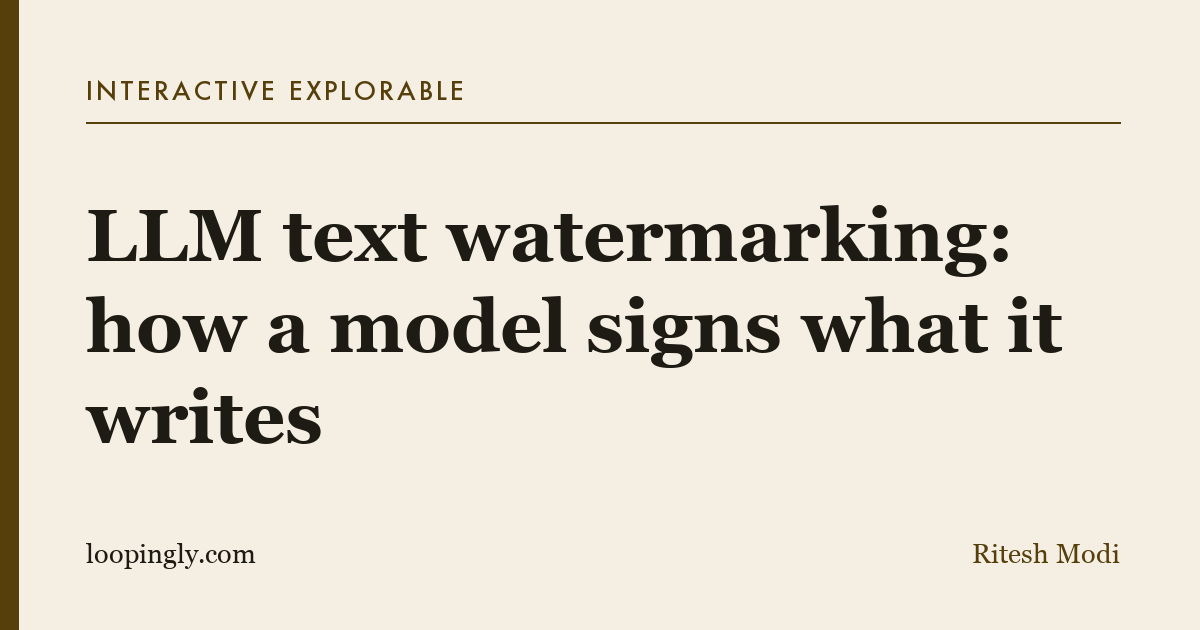
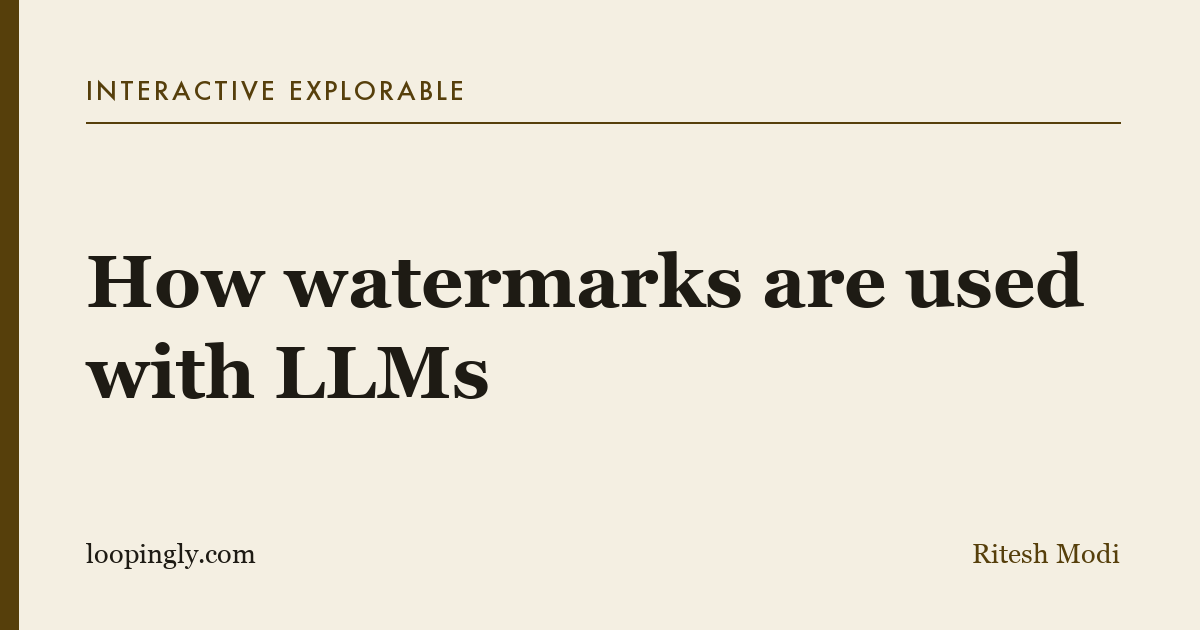
Retitle watermarking explorable
"How a model signs what it writes" -> "How watermarks are used with LLMs",
across the page h1, the title tag, both listing cards (data-title, data-q,
h3), and the metadata regenerated from them: og/twitter titles, Article
headline, breadcrumb, explorables ItemList, feed entry, and the share card,
which had the old title rendered into the pixels.

Claude-Session: https://claude.ai/code/session_01VjkCX7SAEQe5nLaWJ1AvpT

Changed region(s): [[0.0617, 0.3016, 0.925, 0.7238]]

diff --git a/explorables.html b/explorables.html
@@ -32,7 +32,7 @@
   <meta name="twitter:title" content="Explorables — Ritesh Modi">
   <meta name="twitter:description" content="Interactive explainers on AI, databases and distributed systems — each a single page you learn by dragging, poking and breaking. Search and filter them.">
   <meta name="twitter:image" content="https://www.loopingly.com/og/explorables.png">
-  <script type="application/ld+json">{"@context":"https://schema.org","@type":"CollectionPage","name":"Explorables","description":"Interactive explainers on AI, databases and distributed systems — each a single page you learn by dragging, poking and breaking. Search and filter them.","url":"https://www.loopingly.com/explorables","isPartOf":{"@type":"WebSite","name":"Ritesh Modi","url":"https://www.loopingly.com/"},"mainEntity":{"@type":"ItemList","numberOfItems":43,"itemListElement":[{"@type":"ListItem","position":1,"url":"https://www.loopingly.com/explorables/llm-watermarking","name":"How a model signs what it writes"},{"@type":"ListItem","position":2,"url":"https://www.loopingly.com/explorables/agentic-rag","name":"The pipeline that is allowed to try again"},{"@type":"ListItem","position":3,"url":"https://www.loopingly.com/explorables/generative-ai","name":"A machine that produces instead of choosing"},{"@type":"ListItem","position":4,"url":"https://www.loopingly.com/explorables/history-of-generative-ai","name":"A history of generative AI, 1948 to now"},{"@type":"ListItem","position":5,"url":"https://www.loopingly.com/explorables/how-twenty-companies-run-generative-ai","name":"How twenty companies run generative AI"},{"@type":"ListItem","position":6,"url":"https://www.loopingly.com/explorables/playground-controls","name":"Every control on the Playground"},{"@type":"ListItem","position":7,"url":"https://www.loopingly.com/explorables/predicting-the-next-character","name":"Predicting the next character"},{"@type":"ListItem","position":8,"url":"https://www.loopingly.com/explorables/prompting-techniques","name":"Prompting techniques, and when to use each"},{"@type":"ListItem","position":9,"url":"https://www.loopingly.com/explorables/medallion-ten-rows-a-day","name":"Medallion architecture on ten rows a day"},{"@type":"ListItem","position":10,"url":"https://www.loopingly.com/explorables/delta-table-api-explained","name":"The Delta table API"},{"@type":"ListItem","position":11,"url":"https://www.loopingly.com/explorables/regression-metrics-by-hand","name":"Four numbers disagree about one model"},{"@type":"ListItem","position":12,"url":"https://www.loopingly.com/explorables/classification-metrics-by-hand","name":"One slider, three different models"},{"@type":"ListItem","position":13,"url":"https://www.loopingly.com/explorables/neural-network-by-hand","name":"Fifteen numbers, learned"},{"@type":"ListItem","position":14,"url":"https://www.loopingly.com/explorables/three-motions-of-a-model","name":"Classification, regression, deep learning"},{"@type":"ListItem","position":15,"url":"https://www.loopingly.com/explorables/03-words-to-vectors","name":"From a word to a vector"},{"@type":"ListItem","position":16,"url":"https://www.loopingly.com/explorables/matchbox-language-model","name":"A language model made of matchboxes"},{"@type":"ListItem","position":17,"url":"https://www.loopingly.com/explorables/what-is-intelligence","name":"What is intelligence?"},{"@type":"ListItem","position":18,"url":"https://www.loopingly.com/explorables/how-data-becomes-an-equation","name":"How data becomes an equation"},{"@type":"ListItem","position":19,"url":"https://www.loopingly.com/explorables/ai-vs-ml-explained","name":"AI vs machine learning vs automation"},{"@type":"ListItem","position":20,"url":"https://www.loopingly.com/explorables/the-layers-of-intelligence","name":"How the AI words nest"},{"@type":"ListItem","position":21,"url":"https://www.loopingly.com/explorables/how-models-learn","name":"How models learn"},{"@type":"ListItem","position":22,"url":"https://www.loopingly.com/explorables/three-types-of-machine-learning","name":"The three types of machine learning"},{"@type":"ListItem","position":23,"url":"https://www.loopingly.com/explorables/never-use-ai-when-rules-will-do","name":"When to use a rule instead of a model"},{"@type":"ListItem","position":24,"url":"https://www.loopingly.com/explorables/is-it-actually-thinking","name":"What an AI assistant actually does"},{"@type":"ListItem","position":25,"url":"https://www.loopingly.com/explorables/what-ai-is-good-and-bad-at","name":"What AI is good and bad at"},{"@type":"ListItem","position":26,"url":"https://www.loopingly.com/explorables/genai-vocabulary-explainer","name":"Generative AI vocabulary"},{"@type":"ListItem","position":27,"url":"https://www.loopingly.com/explorables/tokenization","name":"Tokenization"},{"@type":"ListItem","position":28,"url":"https://www.loopingly.com/explorables/multimodal-explainer","name":"Multimodal AI"},{"@type":"ListItem","position":29,"url":"https://www.loopingly.com/explorables/reasoning-models-explainer","name":"How reasoning models work"},{"@type":"ListItem","position":30,"url":"https://www.loopingly.com/explorables/prompt-engineering-explainer","name":"Prompt engineering"},{"@type":"ListItem","position":31,"url":"https://www.loopingly.com/explorables/evaluating-models-explainer","name":"Evaluating and comparing AI models"},{"@type":"ListItem","position":32,"url":"https://www.loopingly.com/explorables/discovering-models-trends-explainer","name":"Finding and tracking AI models"},{"@type":"ListItem","position":33,"url":"https://www.loopingly.com/explorables/ai-transformation-explainer","name":"Leading AI transformation"},{"@type":"ListItem","position":34,"url":"https://www.loopingly.com/explorables/grc-explained","name":"Governance, risk and compliance explained"},{"@type":"ListItem","position":35,"url":"https://www.loopingly.com/explorables/grc-building-blocks","name":"The seven building blocks of GRC"},{"@type":"ListItem","position":36,"url":"https://www.loopingly.com/explorables/grc-building-blocks-lesson","name":"The seven building blocks of GRC: a lesson"},{"@type":"ListItem","position":37,"url":"https://www.loopingly.com/explorables/grc-operating-registers","name":"The GRC registers an organization keeps"},{"@type":"ListItem","position":38,"url":"https://www.loopingly.com/explorables/regulatory-atlas","name":"The regulatory atlas"},{"@type":"ListItem","position":39,"url":"https://www.loopingly.com/explorables/grc-for-genai","name":"Governing generative AI"},{"@type":"ListItem","position":40,"url":"https://www.loopingly.com/explorables/rate-limiting-explainer","name":"API rate limiting"},{"@type":"ListItem","position":41,"url":"https://www.loopingly.com/explorables/azure-service-principals-explainer","name":"Azure service principals and OAuth"},{"@type":"ListItem","position":42,"url":"https://www.loopingly.com/explorables/postgres-partitioning-explainer","name":"Postgres table partitioning"},{"@type":"ListItem","position":43,"url":"https://www.loopingly.com/explorables/partition-equal-subset-sum","name":"Partition equal subset sum"}]}}</script>
+  <script type="application/ld+json">{"@context":"https://schema.org","@type":"CollectionPage","name":"Explorables","description":"Interactive explainers on AI, databases and distributed systems — each a single page you learn by dragging, poking and breaking. Search and filter them.","url":"https://www.loopingly.com/explorables","isPartOf":{"@type":"WebSite","name":"Ritesh Modi","url":"https://www.loopingly.com/"},"mainEntity":{"@type":"ItemList","numberOfItems":43,"itemListElement":[{"@type":"ListItem","position":1,"url":"https://www.loopingly.com/explorables/llm-watermarking","name":"How watermarks are used with LLMs"},{"@type":"ListItem","position":2,"url":"https://www.loopingly.com/explorables/agentic-rag","name":"The pipeline that is allowed to try again"},{"@type":"ListItem","position":3,"url":"https://www.loopingly.com/explorables/generative-ai","name":"A machine that produces instead of choosing"},{"@type":"ListItem","position":4,"url":"https://www.loopingly.com/explorables/history-of-generative-ai","name":"A history of generative AI, 1948 to now"},{"@type":"ListItem","position":5,"url":"https://www.loopingly.com/explorables/how-twenty-companies-run-generative-ai","name":"How twenty companies run generative AI"},{"@type":"ListItem","position":6,"url":"https://www.loopingly.com/explorables/playground-controls","name":"Every control on the Playground"},{"@type":"ListItem","position":7,"url":"https://www.loopingly.com/explorables/predicting-the-next-character","name":"Predicting the next character"},{"@type":"ListItem","position":8,"url":"https://www.loopingly.com/explorables/prompting-techniques","name":"Prompting techniques, and when to use each"},{"@type":"ListItem","position":9,"url":"https://www.loopingly.com/explorables/medallion-ten-rows-a-day","name":"Medallion architecture on ten rows a day"},{"@type":"ListItem","position":10,"url":"https://www.loopingly.com/explorables/delta-table-api-explained","name":"The Delta table API"},{"@type":"ListItem","position":11,"url":"https://www.loopingly.com/explorables/regression-metrics-by-hand","name":"Four numbers disagree about one model"},{"@type":"ListItem","position":12,"url":"https://www.loopingly.com/explorables/classification-metrics-by-hand","name":"One slider, three different models"},{"@type":"ListItem","position":13,"url":"https://www.loopingly.com/explorables/neural-network-by-hand","name":"Fifteen numbers, learned"},{"@type":"ListItem","position":14,"url":"https://www.loopingly.com/explorables/three-motions-of-a-model","name":"Classification, regression, deep learning"},{"@type":"ListItem","position":15,"url":"https://www.loopingly.com/explorables/03-words-to-vectors","name":"From a word to a vector"},{"@type":"ListItem","position":16,"url":"https://www.loopingly.com/explorables/matchbox-language-model","name":"A language model made of matchboxes"},{"@type":"ListItem","position":17,"url":"https://www.loopingly.com/explorables/what-is-intelligence","name":"What is intelligence?"},{"@type":"ListItem","position":18,"url":"https://www.loopingly.com/explorables/how-data-becomes-an-equation","name":"How data becomes an equation"},{"@type":"ListItem","position":19,"url":"https://www.loopingly.com/explorables/ai-vs-ml-explained","name":"AI vs machine learning vs automation"},{"@type":"ListItem","position":20,"url":"https://www.loopingly.com/explorables/the-layers-of-intelligence","name":"How the AI words nest"},{"@type":"ListItem","position":21,"url":"https://www.loopingly.com/explorables/how-models-learn","name":"How models learn"},{"@type":"ListItem","position":22,"url":"https://www.loopingly.com/explorables/three-types-of-machine-learning","name":"The three types of machine learning"},{"@type":"ListItem","position":23,"url":"https://www.loopingly.com/explorables/never-use-ai-when-rules-will-do","name":"When to use a rule instead of a model"},{"@type":"ListItem","position":24,"url":"https://www.loopingly.com/explorables/is-it-actually-thinking","name":"What an AI assistant actually does"},{"@type":"ListItem","position":25,"url":"https://www.loopingly.com/explorables/what-ai-is-good-and-bad-at","name":"What AI is good and bad at"},{"@type":"ListItem","position":26,"url":"https://www.loopingly.com/explorables/genai-vocabulary-explainer","name":"Generative AI vocabulary"},{"@type":"ListItem","position":27,"url":"https://www.loopingly.com/explorables/tokenization","name":"Tokenization"},{"@type":"ListItem","position":28,"url":"https://www.loopingly.com/explorables/multimodal-explainer","name":"Multimodal AI"},{"@type":"ListItem","position":29,"url":"https://www.loopingly.com/explorables/reasoning-models-explainer","name":"How reasoning models work"},{"@type":"ListItem","position":30,"url":"https://www.loopingly.com/explorables/prompt-engineering-explainer","name":"Prompt engineering"},{"@type":"ListItem","position":31,"url":"https://www.loopingly.com/explorables/evaluating-models-explainer","name":"Evaluating and comparing AI models"},{"@type":"ListItem","position":32,"url":"https://www.loopingly.com/explorables/discovering-models-trends-explainer","name":"Finding and tracking AI models"},{"@type":"ListItem","position":33,"url":"https://www.loopingly.com/explorables/ai-transformation-explainer","name":"Leading AI transformation"},{"@type":"ListItem","position":34,"url":"https://www.loopingly.com/explorables/grc-explained","name":"Governance, risk and compliance explained"},{"@type":"ListItem","position":35,"url":"https://www.loopingly.com/explorables/grc-building-blocks","name":"The seven building blocks of GRC"},{"@type":"ListItem","position":36,"url":"https://www.loopingly.com/explorables/grc-building-blocks-lesson","name":"The seven building blocks of GRC: a lesson"},{"@type":"ListItem","position":37,"url":"https://www.loopingly.com/explorables/grc-operating-registers","name":"The GRC registers an organization keeps"},{"@type":"ListItem","position":38,"url":"https://www.loopingly.com/explorables/regulatory-atlas","name":"The regulatory atlas"},{"@type":"ListItem","position":39,"url":"https://www.loopingly.com/explorables/grc-for-genai","name":"Governing generative AI"},{"@type":"ListItem","position":40,"url":"https://www.loopingly.com/explorables/rate-limiting-explainer","name":"API rate limiting"},{"@type":"ListItem","position":41,"url":"https://www.loopingly.com/explorables/azure-service-principals-explainer","name":"Azure service principals and OAuth"},{"@type":"ListItem","position":42,"url":"https://www.loopingly.com/explorables/postgres-partitioning-explainer","name":"Postgres table partitioning"},{"@type":"ListItem","position":43,"url":"https://www.loopingly.com/explorables/partition-equal-subset-sum","name":"Partition equal subset sum"}]}}</script>
   <!-- seo:end -->
 </head>
 <body class="tint p-explorables">
@@ -84,9 +84,9 @@
   </div>
 
   <div class="grid" id="grid">
-    <a class="card" data-topic="systems" data-level="beginner" data-date="2026-09-08" data-title="How a model signs what it writes" data-q="how a model signs what it writes llm watermarking ai detection ai text detector a watermark hides in which words get picked. shade the dictionary, press the thumb on the scale, then score three hundred words and see what counts as proof. ai watermarking detection systems beginner" style="--ac:var(--teal)" href="/explorables/llm-watermarking">
+    <a class="card" data-topic="systems" data-level="beginner" data-date="2026-09-08" data-title="How watermarks are used with LLMs" data-q="how watermarks are used with llms llm watermarking ai detection ai text detector a watermark hides in which words get picked. shade the dictionary, press the thumb on the scale, then score three hundred words and see what counts as proof. ai watermarking detection systems beginner" style="--ac:var(--teal)" href="/explorables/llm-watermarking">
       <div class="thumb"><div class="mini" style="font:800 56px 'Baloo 2';color:var(--ac)">✍</div></div>
-      <div class="body"><span class="k">Systems · Beginner</span><h3>How a model signs what it writes</h3>
+      <div class="body"><span class="k">Systems · Beginner</span><h3>How watermarks are used with LLMs</h3>
         <p>A watermark hides in which words get picked. Shade the dictionary, press the thumb on the scale, then score 300 words and see what counts as proof.</p>
         <div class="tags"><span class="tag">watermarking</span><span class="tag">detection</span><span class="date">Sep 2026</span></div></div>
       <div class="go">&rarr;</div>

diff --git a/explorables/llm-watermarking.html b/explorables/llm-watermarking.html
@@ -3,7 +3,7 @@
 <head>
 <meta charset="UTF-8">
 <meta name="viewport" content="width=device-width, initial-scale=1.0">
-<title>LLM text watermarking: how a model signs what it writes</title>
+<title>How watermarks are used with LLMs</title>
 <link rel="preconnect" href="https://fonts.googleapis.com">
 <link rel="preconnect" href="https://fonts.gstatic.com" crossorigin>
 <link href="https://fonts.googleapis.com/css2?family=Red+Hat+Display:wght@400;700;900&family=Figtree:wght@400;500;700&family=Red+Hat+Mono:wght@400;600&display=swap" rel="stylesheet">
@@ -15,19 +15,19 @@
   <meta property="og:type" content="article">
   <meta property="og:site_name" content="Ritesh Modi">
   <meta property="og:locale" content="en_GB">
-  <meta property="og:title" content="LLM text watermarking: how a model signs what it writes">
+  <meta property="og:title" content="How watermarks are used with LLMs">
   <meta property="og:description" content="Shade the dictionary, press the thumb on the scale, then score 300 words.">
   <meta property="og:url" content="https://www.loopingly.com/explorables/llm-watermarking">
   <meta property="og:image" content="https://www.loopingly.com/og/llm-watermarking.png">
   <meta property="og:image:width" content="1200">
   <meta property="og:image:height" content="630">
-  <meta property="og:image:alt" content="LLM text watermarking: how a model signs what it writes">
+  <meta property="og:image:alt" content="How watermarks are used with LLMs">
   <meta name="twitter:card" content="summary_large_image">
-  <meta name="twitter:title" content="LLM text watermarking: how a model signs what it writes">
+  <meta name="twitter:title" content="How watermarks are used with LLMs">
   <meta name="twitter:description" content="Shade the dictionary, press the thumb on the scale, then score 300 words.">
   <meta name="twitter:image" content="https://www.loopingly.com/og/llm-watermarking.png">
-  <script type="application/ld+json">{"@context":"https://schema.org","@type":["Article","LearningResource"],"headline":"LLM text watermarking: how a model signs what it writes","description":"A watermark hides in which words the model picks. Shade the dictionary with a secret key, press the thumb on the scale, then score 300 words for proof.","url":"https://www.loopingly.com/explorables/llm-watermarking","image":"https://www.loopingly.com/og/llm-watermarking.png","datePublished":"2026-09-08","dateModified":"2026-09-08","inLanguage":"en","author":{"@type":"Person","name":"Ritesh Modi","url":"https://www.loopingly.com/about"},"publisher":{"@type":"Person","name":"Ritesh Modi","url":"https://www.loopingly.com/"},"learningResourceType":"Interactive explorable","educationalLevel":"Beginner","isAccessibleForFree":true,"about":{"@type":"Thing","name":"LLM text watermarking and AI-generated text detection"},"keywords":"what is LLM watermarking, how does AI text detection work, can you detect AI written text, SynthID text, green list red list watermark, AI detector accuracy, how to watermark AI text"}</script>
-  <script type="application/ld+json">{"@context":"https://schema.org","@type":"BreadcrumbList","itemListElement":[{"@type":"ListItem","position":1,"name":"Home","item":"https://www.loopingly.com/"},{"@type":"ListItem","position":2,"name":"Explorables","item":"https://www.loopingly.com/explorables"},{"@type":"ListItem","position":3,"name":"How a model signs what it writes"}]}</script>
+  <script type="application/ld+json">{"@context":"https://schema.org","@type":["Article","LearningResource"],"headline":"How watermarks are used with LLMs","description":"A watermark hides in which words the model picks. Shade the dictionary with a secret key, press the thumb on the scale, then score 300 words for proof.","url":"https://www.loopingly.com/explorables/llm-watermarking","image":"https://www.loopingly.com/og/llm-watermarking.png","datePublished":"2026-09-08","dateModified":"2026-09-08","inLanguage":"en","author":{"@type":"Person","name":"Ritesh Modi","url":"https://www.loopingly.com/about"},"publisher":{"@type":"Person","name":"Ritesh Modi","url":"https://www.loopingly.com/"},"learningResourceType":"Interactive explorable","educationalLevel":"Beginner","isAccessibleForFree":true,"about":{"@type":"Thing","name":"LLM text watermarking and AI-generated text detection"},"keywords":"what is LLM watermarking, how does AI text detection work, can you detect AI written text, SynthID text, green list red list watermark, AI detector accuracy, how to watermark AI text"}</script>
+  <script type="application/ld+json">{"@context":"https://schema.org","@type":"BreadcrumbList","itemListElement":[{"@type":"ListItem","position":1,"name":"Home","item":"https://www.loopingly.com/"},{"@type":"ListItem","position":2,"name":"Explorables","item":"https://www.loopingly.com/explorables"},{"@type":"ListItem","position":3,"name":"How watermarks are used with LLMs"}]}</script>
   <!-- seo:end -->
 </head>
 <body>
@@ -37,7 +37,7 @@
 <header class="hero col"
         style="padding-top:clamp(70px,13vh,140px);padding-bottom:clamp(36px,6vh,80px)">
   <p class="kick">Text provenance</p>
-  <h1>How a model signs what it writes</h1>
+  <h1>How watermarks are used with LLMs</h1>
   <p class="lede" style="margin-top:26px;max-width:54ch">Nothing in a sentence records who wrote
     it. A watermark puts that record inside the words themselves, by quietly biasing which words
     get picked. Below is a sentence a model wrote. The shading was always there.</p>

diff --git a/index.html b/index.html
@@ -82,9 +82,9 @@
     <a href="/explorables" class="btn ghost sm">See all →</a>
   </div>
   <div class="grid">
-    <a class="card" data-topic="systems" data-level="beginner" data-date="2026-09-08" data-title="How a model signs what it writes" data-q="how a model signs what it writes llm watermarking ai detection ai text detector a watermark hides in which words get picked. shade the dictionary, press the thumb on the scale, then score three hundred words and see what counts as proof. ai watermarking detection systems beginner" style="--ac:var(--teal)" href="/explorables/llm-watermarking">
+    <a class="card" data-topic="systems" data-level="beginner" data-date="2026-09-08" data-title="How watermarks are used with LLMs" data-q="how watermarks are used with llms llm watermarking ai detection ai text detector a watermark hides in which words get picked. shade the dictionary, press the thumb on the scale, then score three hundred words and see what counts as proof. ai watermarking detection systems beginner" style="--ac:var(--teal)" href="/explorables/llm-watermarking">
       <div class="thumb"><div class="mini" style="font:800 56px 'Baloo 2';color:var(--ac)">✍</div></div>
-      <div class="body"><span class="k">Systems · Beginner</span><h3>How a model signs what it writes</h3>
+      <div class="body"><span class="k">Systems · Beginner</span><h3>How watermarks are used with LLMs</h3>
         <p>A watermark hides in which words get picked. Shade the dictionary, press the thumb on the scale, then score 300 words and see what counts as proof.</p>
         <div class="tags"><span class="tag">watermarking</span><span class="tag">detection</span><span class="date">Sep 2026</span></div></div>
       <div class="go">&rarr;</div>
